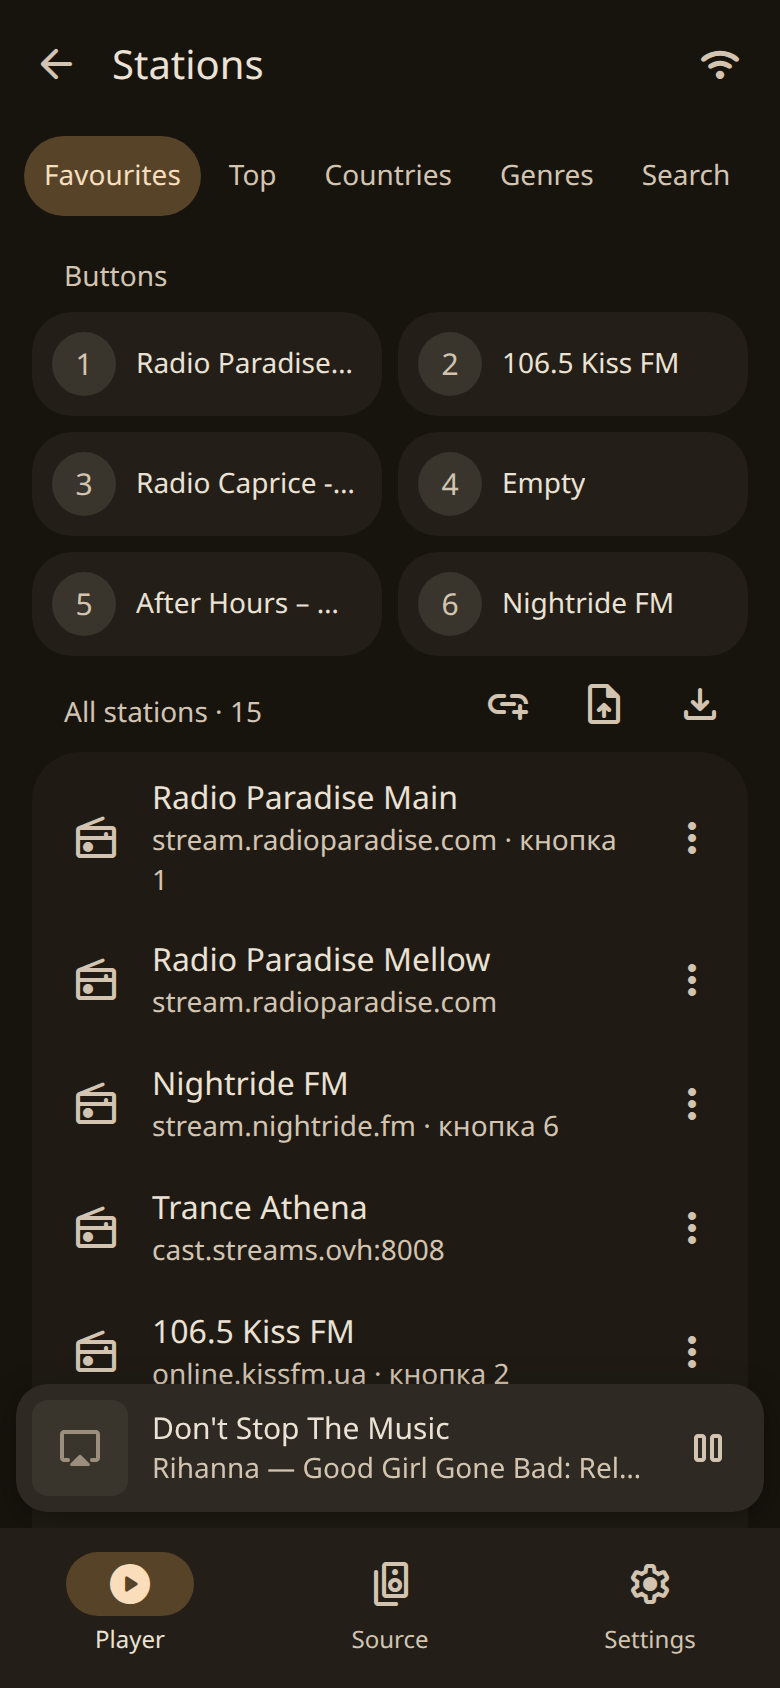
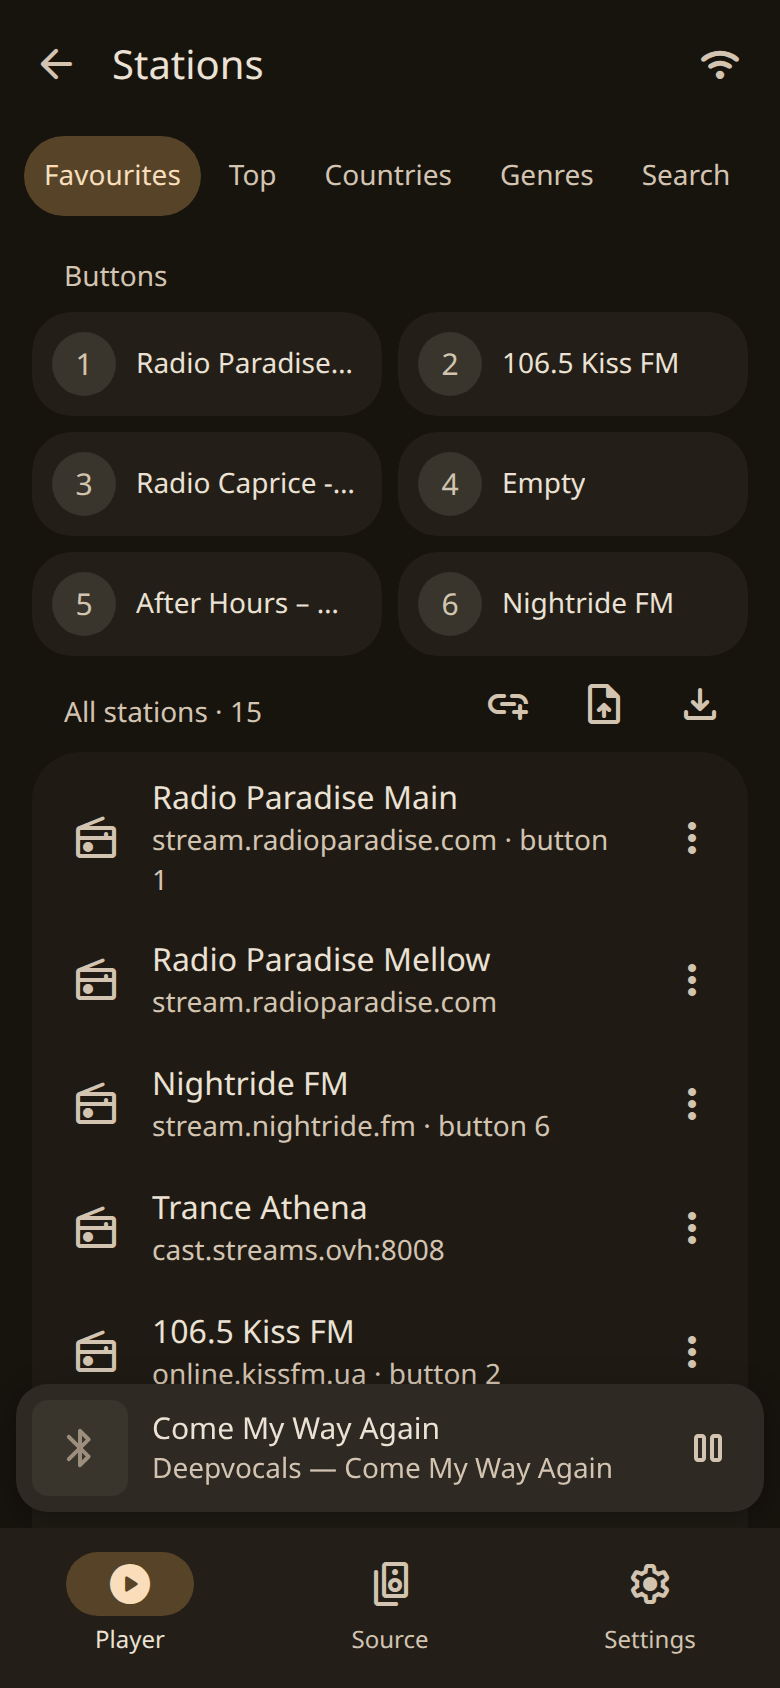
fix(webui): helper-built text follows the catalog; stations screenshots
From the development repository at 67a8899: text the web builds with a helper
(the station list's "button N") follows the language catalog once it arrives,
and the README's stations screenshots show it.

diff --git a/webui/src/pages/stations/Catalog.svelte b/webui/src/pages/stations/Catalog.svelte
@@ -176,7 +176,9 @@
     showStations();
   }
 
-  function sub(st) {
+  // Reactive for the same reason as Favorites' subtitle: it reads $t, and a plain function
+  // called from the template would keep the first catalog's words.
+  $: sub = (st) => {
     const codec = (st.codec || '').toUpperCase();
     const parts = [codec === 'FLAC' ? `FLAC · ${$t['cat.lossless']}` : st.bitrate ? `${codec} ${st.bitrate}` : codec];
     if (st.countrycode) parts.push(region(st.countrycode));
@@ -184,7 +186,7 @@
     if (sort === 1) parts.push(plural($t, lang, 'cat.votes', st.votes || 0));
     if (st.tags) parts.push(st.tags.split(',').slice(0, 3).join(', '));
     return parts.join(' · ');
-  }
+  };
 
   /** act: 0 play, 1 keep in the list, 2..7 keep in preset 1..6 (radio.web_act). */
   async function toPanel(st, act) {

diff --git a/webui/src/pages/stations/Favorites.svelte b/webui/src/pages/stations/Favorites.svelte
@@ -120,10 +120,14 @@
     return list.presets.indexOf(i);
   }
 
-  function subtitle(st, i) {
+  // Reactive, not a plain function: the template calls subtitle(st, i), and Svelte re-runs that
+  // call only when something in the call itself changes. $t is read inside, so a plain function
+  // kept the bundled Ukrainian text after the English catalog arrived (customer, 25.10.2026:
+  // «кнопка 1» on the English Stations page).
+  $: subtitle = (st, i) => {
     const p = presetOf(i);
     return p >= 0 ? `${S.host(st.url)} · ${fmt($t['st.preset_n'], { n: p + 1 })}` : S.host(st.url);
-  }
+  };
 
   function openSheet(i) {
     sheet = i;

diff --git a/webui/src/pages/service/LogPage.svelte b/webui/src/pages/service/LogPage.svelte
@@ -45,7 +45,8 @@
     }
     load();
   }
-  const name = (l) => (NAMES[l] ? $t[NAMES[l]] : l);
+  // Reactive: the level names in the list follow the catalog when it arrives.
+  $: name = (l) => (NAMES[l] ? $t[NAMES[l]] : l);
 </script>
 
 

diff --git a/tools/tests/test_webui_i18n_reactive.py b/tools/tests/test_webui_i18n_reactive.py
@@ -1,0 +1,122 @@
+"""A helper that reads the catalog must be reactive when the template calls it.
+
+Svelte 4 re-evaluates a template expression only when a variable written in that expression
+changes. A plain function that reads `$t` inside, called as `{label(x)}`, is therefore
+evaluated once with the catalog that was there at the first render — the bundled Ukrainian
+one — and keeps those words after `/lang/<lang>.json` arrives. That is how the English
+Stations page said «кнопка 1» (customer, 25.10.2026) although en.json had `st.preset_n`.
+
+The fix is `$: label = (x) => ...` (or passing `$t` into the call). This test finds plain
+`function name(...)` and `const name = (...) =>` declarations whose body reads `$t`, and fails
+when the markup calls one of them from an expression that does not itself mention `$t`.
+Event handlers (`on:click={...}`) run when the event fires, so they are left alone.
+"""
+
+import re
+import sys
+from pathlib import Path
+
+WEBUI_SRC = Path(__file__).resolve().parents[2] / "webui" / "src"
+
+FUNC = re.compile(r"(?:^|\n)[ \t]*(?:export[ \t]+)?function[ \t]+(\w+)[ \t]*\([^)]*\)[ \t]*\{")
+ARROW = re.compile(r"(?:^|\n)[ \t]*(?:const|let)[ \t]+(\w+)[ \t]*=[ \t]*(?:\([^)]*\)|\w+)[ \t]*=>")
+READS_T = re.compile(r"\$t\b")
+
+
+def _body(text, open_at):
+    """The text from the brace at `open_at` to its match (inclusive)."""
+    depth = 0
+    for k in range(open_at, len(text)):
+        if text[k] == "{":
+            depth += 1
+        elif text[k] == "}":
+            depth -= 1
+            if depth == 0:
+                return text[open_at:k + 1]
+    return text[open_at:]
+
+
+def _arrow_body(script, end):
+    """An arrow function's body: a braced block, or the expression up to the statement's end."""
+    rest = script[end:].lstrip()
+    if rest.startswith("{"):
+        return _body(rest, 0)
+    stop = re.search(r";|\n\s*\n|\n\s*(?:const|let|function|\$:|export)\b", rest)
+    return rest[: stop.start()] if stop else rest
+
+
+def catalog_helpers(script):
+    """Names of non-reactive helpers whose body reads $t."""
+    names = set()
+    for m in FUNC.finditer(script):
+        if READS_T.search(_body(script, script.index("{", m.end() - 1))):
+            names.add(m.group(1))
+    for m in ARROW.finditer(script):
+        line_start = script.rfind("\n", 0, m.start() + 1) + 1
+        if script[line_start:m.start() + 1].strip().startswith("$:"):
+            continue
+        if READS_T.search(_arrow_body(script, m.end())):
+            names.add(m.group(1))
+    return names
+
+
+def template_expressions(markup):
+    """Every {...} expression in the markup, with the text just before it."""
+    i = 0
+    while True:
+        i = markup.find("{", i)
+        if i < 0:
+            return
+        expr = _body(markup, i)
+        yield markup[max(0, i - 40):i], expr
+        i += len(expr)
+
+
+def stale_calls(path):
+    text = path.read_text(encoding="utf-8")
+    m = re.search(r"<script(?![^>]*context=)[^>]*>(.*?)</script>", text, re.S)
+    if not m:
+        return []
+    helpers = catalog_helpers(m.group(1))
+    if not helpers:
+        return []
+    markup = text[: m.start()] + text[m.end():]
+    markup = re.sub(r"<style.*?</style>", "", markup, flags=re.S)
+    markup = re.sub(r"<script.*?</script>", "", markup, flags=re.S)
+    found = []
+    for before, expr in template_expressions(markup):
+        if re.search(r"on:[\w|]+=\s*$", before):
+            continue                     # an event handler: evaluated when it fires
+        if READS_T.search(expr):
+            continue                     # $t in the expression itself: Svelte tracks it
+        for name in helpers:
+            if re.search(r"\b%s\s*\(" % re.escape(name), expr):
+                found.append(f"{path.relative_to(WEBUI_SRC)}: {name}() in {expr[:80]!r}")
+    return found
+
+
+def test_catalog_helpers_called_from_markup_are_reactive():
+    problems = []
+    for path in sorted(WEBUI_SRC.rglob("*.svelte")):
+        problems += stale_calls(path)
+    assert not problems, (
+        "a helper reads $t but the template call does not mention it, so the text keeps the "
+        "first catalog (make it `$: name = (...) => ...`):\n  " + "\n  ".join(problems))
+
+
+def test_the_check_catches_the_stations_bug(tmp_path, monkeypatch):
+    # The exact shape of the 25.10 bug, so the check above is known to bite.
+    bad = tmp_path / "Bad.svelte"
+    bad.write_text(
+        "<script>\n  import { t } from './i18n.js';\n"
+        "  function subtitle(st, i) {\n    return $t['st.preset_n'] + i;\n  }\n</script>\n"
+        "<Row subtitle={subtitle(st, i)} />\n", encoding="utf-8")
+    good = tmp_path / "Good.svelte"
+    good.write_text(
+        "<script>\n  import { t } from './i18n.js';\n"
+        "  $: subtitle = (st, i) => $t['st.preset_n'] + i;\n"
+        "  function tap() { return $t['x']; }\n</script>\n"
+        "<Row subtitle={subtitle(st, i)} on:click={() => tap()} />\n", encoding="utf-8")
+    monkeypatch.setattr(sys.modules[__name__], "WEBUI_SRC", tmp_path)
+    assert stale_calls(bad)
+    assert not stale_calls(good)
